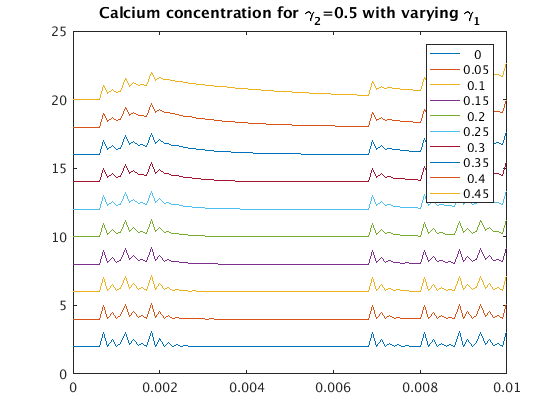
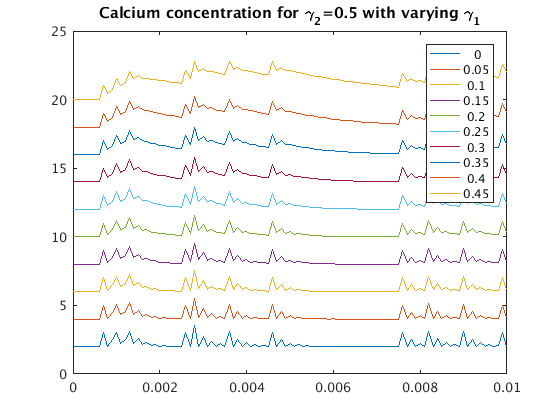
update AR tutorial

diff --git a/tutorial/html/ARmodel.html b/tutorial/html/ARmodel.html
@@ -66,7 +66,7 @@ table td { padding:7px 5px; text-align:left; vertical-align:top; border:1px soli
 
 
 
-  </style></head><body><div class="content"><h1>Autoregressive Model for Calcium Dynamics</h1><!--introduction--><p>Explain what an autoregressive model is and how this applies</p><!--/introduction--><h2>Contents</h2><div><ul><li><a href="#1">Generate spikes from exponential distribution</a></li><li><a href="#2">Applying the AR model to Action Potentials</a></li></ul></div><h2>Generate spikes from exponential distribution<a name="1"></a></h2><pre class="codeinput">rate = 1000; <span class="comment">% spike rate (Hz)</span>
+  </style></head><body><div class="content"><h1>Autoregressive Model for Calcium Dynamics</h1><!--introduction--><p>An autoregressive process operates under the assumption that past states affect current states. An autoregressive process of order 1 means that each state is affected by the state immediately preceding it, order 2 means that each state is affected by the two states immediately prior, etc. An autoregressive process of order p (AR(p)) is defined as follows:</p><!--/introduction--><h2>Contents</h2><div><ul><li><a href="#3">Generate spikes from exponential distribution</a></li><li><a href="#4">Applying the AR model to Action Potentials</a></li></ul></div><p><img src="ARmodel_eq06790537459012590902.png" alt="$$X_t = c + \sum_{i=1}^p\gamma_iX_{t-i} + \epsilon_t$$"></p><p>where <img src="ARmodel_eq08422257486649890878.png" alt="$c$"> is a constant, <img src="ARmodel_eq10190599912419501465.png" alt="$\gamma_i$"> are the coefficients of the process and <img src="ARmodel_eq09284369226989828555.png" alt="$\epsilon_t$"> is white noise. In this tutorial, we will look at an AR process that incorporates spike data to generate a model of calcium dynamics. The goal is to get an intuitive understanding of how this particular calcium model works in order to understand its role in calcium data analysis.</p><h2>Generate spikes from exponential distribution<a name="3"></a></h2><pre class="codeinput">rate = 1000; <span class="comment">% spike rate (Hz)</span>
 dur = .01; <span class="comment">% duration of trial (s)</span>
 dt = 0.0001; <span class="comment">% time step (s)</span>
 T = (0:dt:dur);
@@ -79,7 +79,7 @@ spikes = zeros(dur/dt+1,1);
         spikes(t) = 1;
     <span class="keyword">end</span>
 <span class="keyword">end</span>
-</pre><h2>Applying the AR model to Action Potentials<a name="2"></a></h2><p>Before implementing the calculation, consider what each of the parameters in the model does. Look again at the AR model.</p><p><img src="ARmodel_eq06263262507588699212.png" alt="$c(t) = \sum_{j=1}^p\gamma_jc(t-j)+s(t)$"></p><p>Consider the following for <img src="ARmodel_eq12081968486337205601.png" alt="$p=1$">:</p><div><ul><li>What does the parameter <img src="ARmodel_eq15212781520413577972.png" alt="$\gamma_1$"> represent?</li><li>How do changes to <img src="ARmodel_eq15212781520413577972.png" alt="$\gamma_1$"> affect the calcium signal?</li><li>What are reasonable values for this parameter?</li></ul></div><p>Look at what happens when we vary <img src="ARmodel_eq15212781520413577972.png" alt="$\gamma_1$">:</p><pre class="codeinput">p = 1;
+</pre><h2>Applying the AR model to Action Potentials<a name="4"></a></h2><p>Before implementing the calculation, consider what each of the parameters in the model does. Look again at the AR model.</p><p><img src="ARmodel_eq06263262507588699212.png" alt="$c(t) = \sum_{j=1}^p\gamma_jc(t-j)+s(t)$"></p><p>Consider the following for <img src="ARmodel_eq12081968486337205601.png" alt="$p=1$">:</p><div><ul><li>What does the parameter <img src="ARmodel_eq15212781520413577972.png" alt="$\gamma_1$"> represent?</li><li>How do changes to <img src="ARmodel_eq15212781520413577972.png" alt="$\gamma_1$"> affect the calcium signal?</li><li>What are reasonable values for this parameter?</li></ul></div><p>Look at what happens when we vary <img src="ARmodel_eq15212781520413577972.png" alt="$\gamma_1$">:</p><pre class="codeinput">p = 1;
 Gamma = (.5:.05:.99);
 calcium = zeros(length(spikes),numel(Gamma));
 <span class="keyword">for</span> g = 1:numel(Gamma)
@@ -99,12 +99,16 @@ title(<span class="string">'Comparison of traces with high and low \gamma'</span
     <span class="string">'uniformoutput'</span>,false);
 disp(cat(2,peaklocs{:}))
 </pre><pre class="codeoutput">     8     8
-    13    13
-    19    19
-    70    70
-    82    82
-    90    90
-    95    95
+    11    11
+    14    14
+    27    27
+    29    29
+    37    37
+    47    47
+    77    77
+    83    83
+    91    91
+   100   100
 
 </pre><p>Great! Looks like yes! Now, let's look at what happens when <img src="ARmodel_eq03564621074447017616.png" alt="$p=2$">. We will start by holding <img src="ARmodel_eq15212781520413577972.png" alt="$\gamma_1$"> constant and varying <img src="ARmodel_eq02298748245043383986.png" alt="$\gamma_2$">.</p><pre class="codeinput">p = 2;
 gamma1 = 0.5;
@@ -145,8 +149,22 @@ title(<span class="string">'Comparison of traces with high and low \gamma_1'</sp
 </pre><img vspace="5" hspace="5" src="ARmodel_05.png" alt=""> <img vspace="5" hspace="5" src="ARmodel_06.png" alt=""> <p>Look at what you see and think about how different values of the AR coefficients change the behavior of the calcium signal.</p><p class="footer"><br><a href="http://www.mathworks.com/products/matlab/">Published with MATLAB&reg; R2016a</a><br></p></div><!--
 ##### SOURCE BEGIN #####
 %% Autoregressive Model for Calcium Dynamics
-% Explain what an autoregressive model is and how this applies
-
+% An autoregressive process operates under the assumption that past
+% states
+% affect current states. An autoregressive process of order 1 means that
+% each state is affected by the state immediately preceding it, order 2
+% means that each state is affected by the two states immediately prior,
+% etc. An autoregressive process of order p (AR(p)) is defined as follows:
+%%
+% $$X_t = c + \sum_{i=1}^p\gamma_iX_{t-i} + \epsilon_t$$
+%%
+% where $c$ is a constant, $\gamma_i$ are the coefficients of the process
+% and $\epsilon_t$ is white noise. In this tutorial, we will look at an AR
+% process that incorporates spike data to generate a model of calcium
+% dynamics. The goal is to get an intuitive understanding of how this
+% particular calcium model works in order to understand its role in calcium
+% data analysis.
+%
 %% Generate spikes from exponential distribution
 rate = 1000; % spike rate (Hz)
 dur = .01; % duration of trial (s)

diff --git a/tutorial/ARmodel.m b/tutorial/ARmodel.m
@@ -1,6 +1,20 @@
 %% Autoregressive Model for Calcium Dynamics
-% Explain what an autoregressive model is and how this applies
-
+% An autoregressive process operates under the assumption that past
+% states
+% affect current states. An autoregressive process of order 1 means that
+% each state is affected by the state immediately preceding it, order 2
+% means that each state is affected by the two states immediately prior,
+% etc. An autoregressive process of order p (AR(p)) is defined as follows:
+%%
+% $$X_t = c + \sum_{i=1}^p\gamma_iX_{t-i} + \epsilon_t$$
+%%
+% where $c$ is a constant, $\gamma_i$ are the coefficients of the process
+% and $\epsilon_t$ is white noise. In this tutorial, we will look at an AR
+% process that incorporates spike data to generate a model of calcium
+% dynamics. The goal is to get an intuitive understanding of how this
+% particular calcium model works in order to understand its role in calcium
+% data analysis.
+%
 %% Generate spikes from exponential distribution
 rate = 1000; % spike rate (Hz)
 dur = .01; % duration of trial (s)
